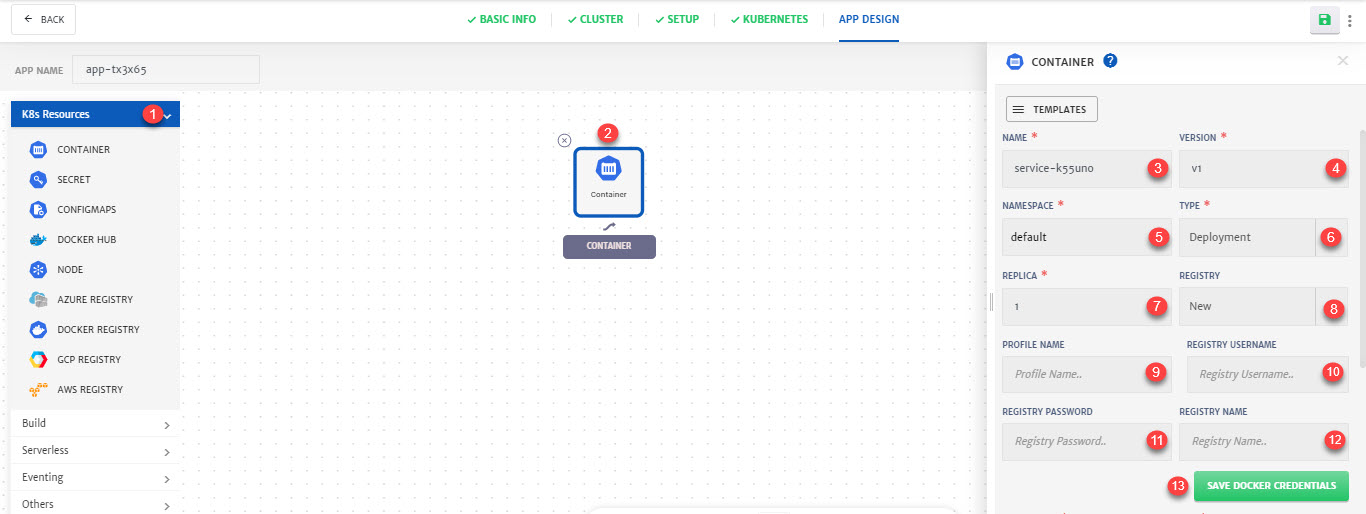
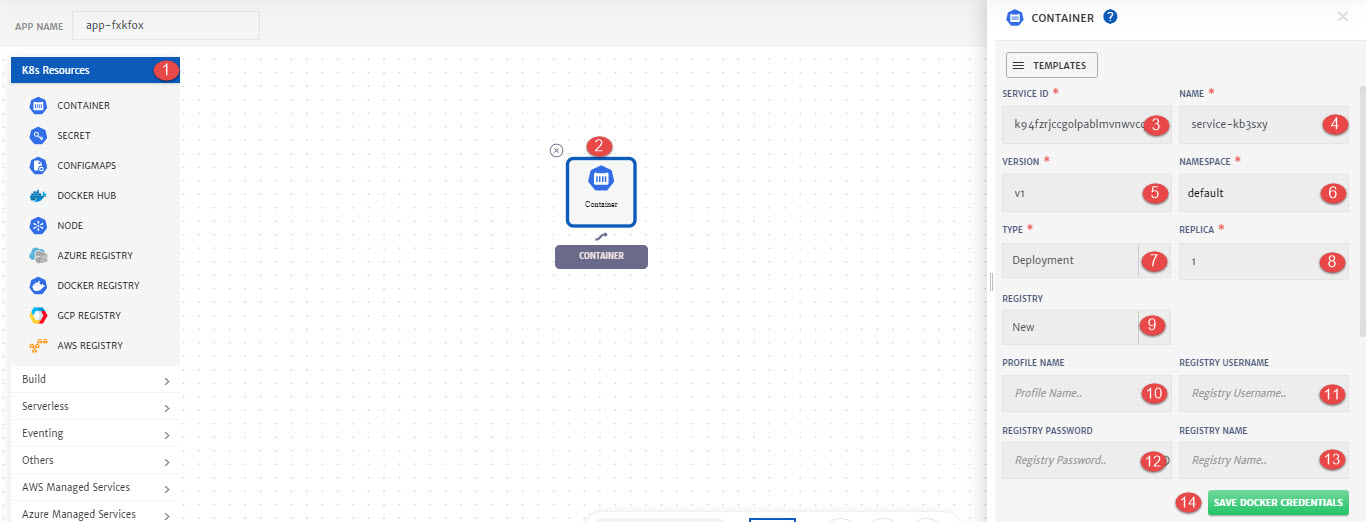
updates

diff --git a/pages/user-guide/components/scaling/scaling.md b/pages/user-guide/components/scaling/scaling.md
@@ -1,23 +1,30 @@
 # Scaling
 
-As CloudPlex is a cloud management platform, it provides all the necessary cloud solutions and features to its users. In the IT world it is difficult to predict the growth of applications, storage capacity with time. To maintain consistent performance of different workloads over time, it is necessary that IT managers keep the resource requirement in check. Keeping this use case in mind, CloudPlex have provided the feature of Scaling to their users. Now in order to keep up with the workload, you can easily scale up/down your resources as per requirements.
+As CloudPlex is a cloud management platform, it provides all the necessary cloud solutions and features to its users. In the IT world it is difficult to predict the growth of applications, storage capacity with time. To maintain consistent performance of different workloads over time, it is necessary that IT managers keep the resources requirements in check. Keeping this use case in mind, CloudPlex have provided the feature of Auto Scaling to their users. Now in order to keep up with the workload, you can easily scale up/down your resources as per requirements.
 
 CloudPlex provides a comprehensive auto-scaling solution. It has the ability to scale infrastructure dynamically by continuously monitoring the applications, keeping track of resource consumption and adjusting the capacity of resources for high performance. 
 
-CloudPlex provides an interactive and easy to navigate UI to define scaling policy. 
+CloudPlex provides an interactive and easy to navigate UI to define auto scaling policy. 
 
 There are two types of scaling supported in platform:
 
 1. Container Scaling
 2. Node Scaling
 
-Below are the details of the configurations required to setup scaling in platform.
+Below are the details of the configurations required to setup auto scaling in platform.
 
 ## Container Scaling
 
 Whenever the resources consumption of the container gets too high or low (based on threshold set), scaling action will be performed. For each container service, users will be able to configure policy configuration. 
 
 **Configurations**
+
+User can define the value for range of replicas of running containers. Following metrics are available in platform to define the range.
+
+- MIN
+- MAX 
+
+Whenever the threshold of chosen metric is reached, number of replicas will automatically adjust in the range defined by the user.
 
 User can configure scaling using multiple metrics. Following metrics are available in platform.
 
@@ -30,8 +37,6 @@ Threshold value of chosen metrics in can be defined in two forms
 - Average Value
 - Average Utilization
 
-User can also define the MIN and MAX value for number of replicas of running containers. Whenever the threshold is reached, number of replicas will automatically adjust in the range defined by the user.
-
 User can define only one container policy for each container service in the Application.
 
 Now let’s move to step by step process on how to setup Container scaling.
@@ -41,8 +46,6 @@ Now let’s move to step by step process on how to setup Container scaling.
 1. Go to the **App Design** tab while configuring application, drag and drop **Container** on canvas, go to **Advanced Settings** (last menu in side bar), select **Scaling** menu and **Enable Scaling**.
 
    ![3](imgs/3.jpg)
-
-   ![3.2](imgs/3.2.jpg)
 
 2. Specify **MIN** and **MAX** number for container replicas. 
 

diff --git a/pages/user-guide/components/k8s-resources/container/container.md b/pages/user-guide/components/k8s-resources/container/container.md
@@ -12,13 +12,15 @@ Details of the configurations that can be done for Kubernetes Containers are exp
 
 2. **Container Icon**: Click the icon to configure container. 
 
-3. **Name**: Name for the service.
+3. **Service Id:** Id of the service. System will automatically assign id to the service but user can customize it.
 
-4. **Version:** Version of the service.
+4. **Name**: Name for the service.
 
-5. **Namespace**: Namespace for the service. 
+5. **Version:** Version of the service.
 
-6. **Type**: Type of Pod or Controller i.e. Deployment, StatefulSet, DaemonSet, CronJob, Job.
+6. **Namespace**: Namespace for the service. 
+
+7. **Type**: Type of Pod or Controller i.e. Deployment, StatefulSet, DaemonSet, CronJob, Job.
 
    > **Deployment:** A Deployment controller provides declarative updates for Pods and ReplicaSets. It changes the actual state to the desired state at a controlled rate. You can define Deployments to create new ReplicaSets, or to remove existing Deployments and adopt all their resources with new Deployments.
    >
@@ -29,20 +31,20 @@ Details of the configurations that can be done for Kubernetes Containers are exp
    > **Job:** A Job creates one or more Pods and ensures that a specified number of them successfully terminate. As pods successfully complete, the Job tracks the successful completions. When a specified number of successful completions is reached, the task is complete. Deleting a Job will clean up the Pods it created.
    >
    > **CronJob:** A Cron Job creates Jobs on a time-based schedule. It runs a job periodically on a given schedule, written in Cron format.
-   
-7. **Replica:** To set number of container replicas. 
 
-8. **Registry**: Select any saved docker registry from drop-down or create a new one. 
+8. **Replica:** To set number of container replicas. 
 
-9. **Profile Name**: Profile Name to save registry for future use. 
+9. **Registry**: Select any saved docker registry from drop-down or create a new one. 
 
-10. **Registry Username** of docker registry.
+10. **Profile Name**: Profile Name to save registry for future use. 
 
-11. **Registry Password** of docker registry. 
+11. **Registry Username** of docker registry.
 
-12. **Registry Name:** Specify Name of the registry. 
+12. **Registry Password** of docker registry. 
 
-13. **Save Docker Credentials**: To save credentials for future use. 
+13. **Registry Name:** Specify Name of the registry. 
+
+14. **Save Docker Credentials**: To save credentials for future use. 
 
 ![2](imgs/2.jpg)
 
